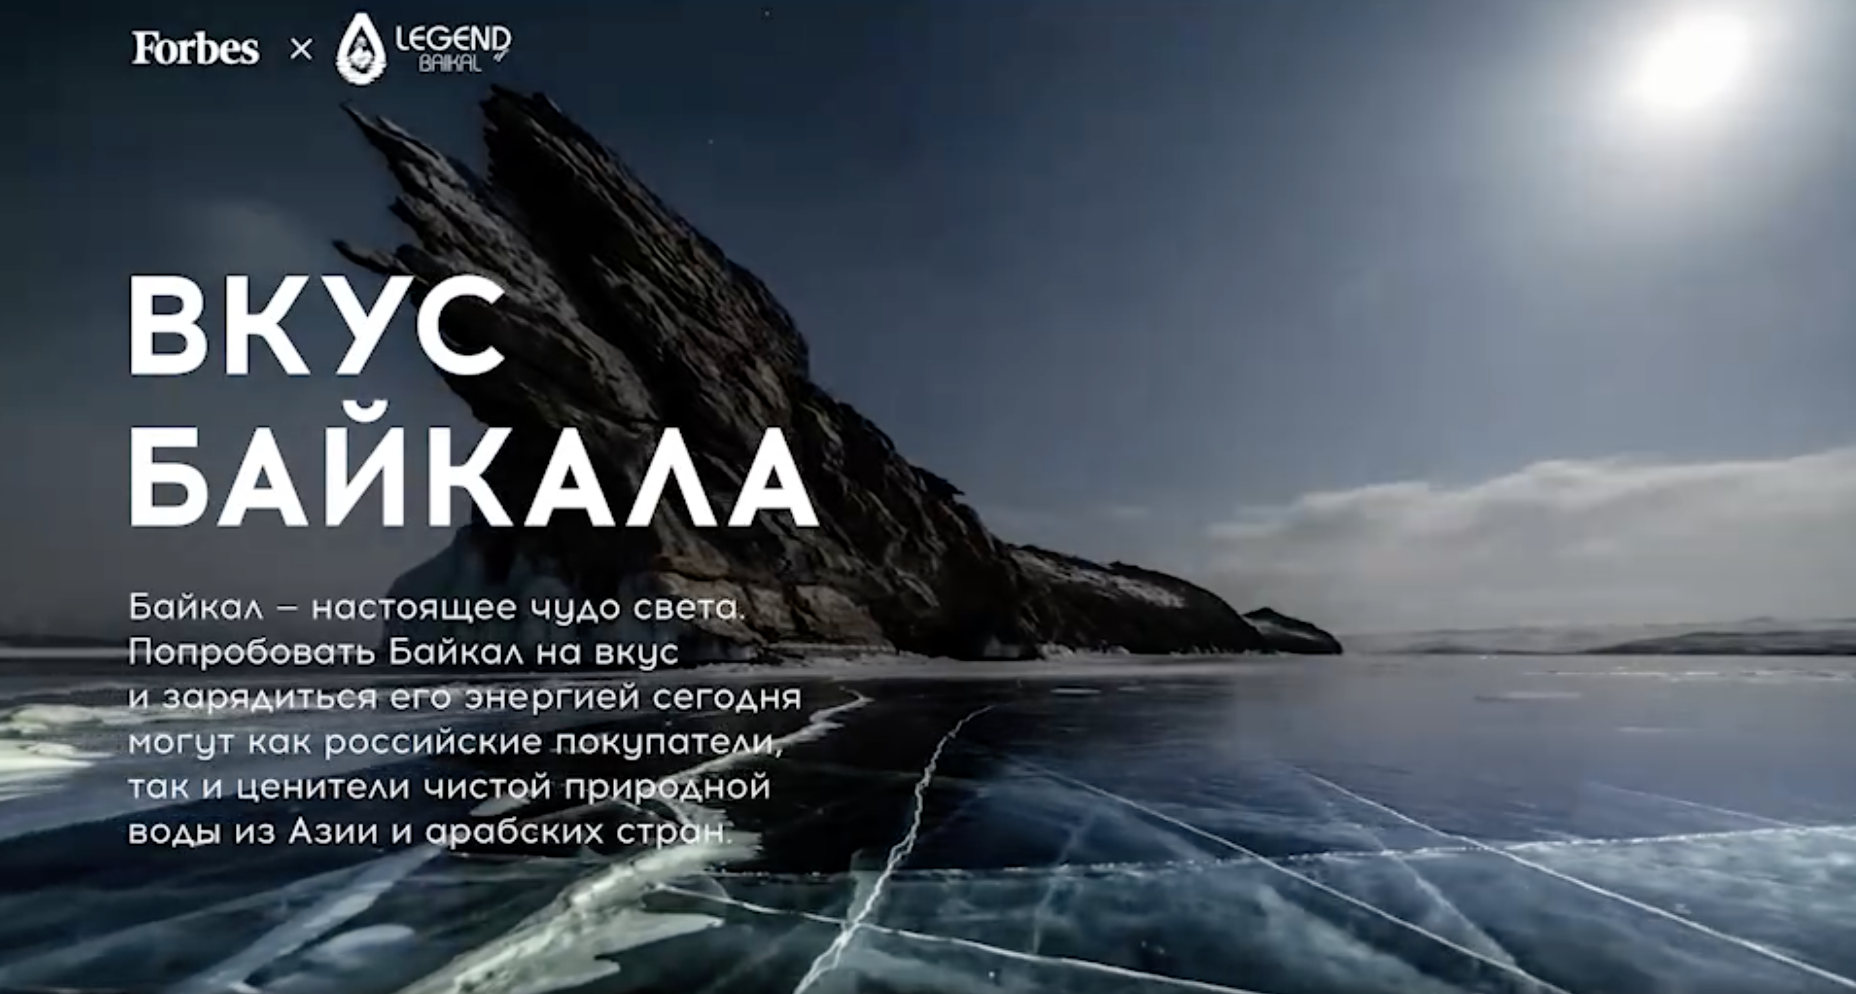
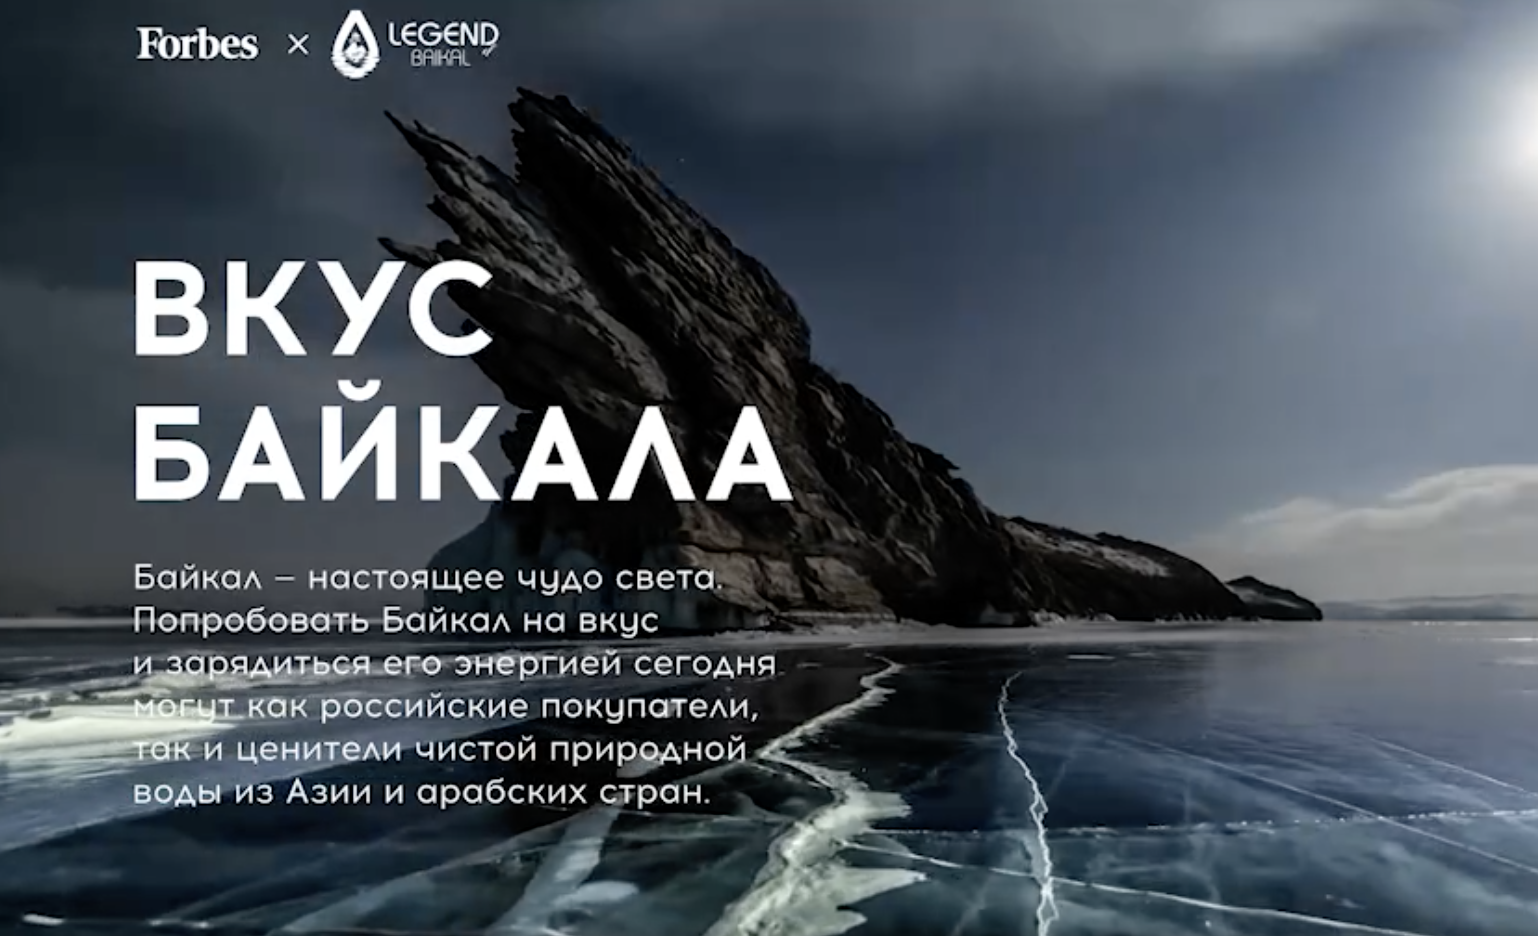
portfolio: remove date from hero; fix hyphen wrap; l1 smaller case01; blur per-case; update 4 photos

diff --git a/portfolio.jsx b/portfolio.jsx
@@ -4,16 +4,17 @@ const CASES = [
   {
     n: "01",
     year: "2026",
-    title: [<span className="accent" key="a">Контент-завод</span>, " звезд"],
+    title: [<span className="accent" key="a">Контент‑завод</span>, " звезд"],
     role: "идея + пайплайн + запуск",
     client: "Пет-проект",
     body: "От инсайта до релиза. Цельный пайплайн «сбор данных — анализ — текст — музыка — постинг» с минимальным участием человека, в процесс активно вовлечены 1–2 кожаных мешка. Затраты стремятся к нулю. Тесты пройдены, работа идёт, готов к масштабированию. Кстати, есть окошко для инвестиций.",
     tags: ["ИИ", "автоматизация", "контент"],
     flip: false,
     light: false,
-    imgs: ["assets/1-1.png", "assets/1-2.jpg"],
+    imgs: ["assets/1-1.png", "assets/1-2.png"],
     imgPos: ["center center", "center top"],
-    blur: [true, false],
+    blur: [3, 0],
+    l1Style: { width: '58%', height: '52%' },
   },
   {
     n: "02",
@@ -27,7 +28,7 @@ const CASES = [
     light: false,
     imgs: ["assets/2-1.jpg", "assets/2-2.jpg"],
     imgPos: ["center center", "center center"],
-    blur: [true, true],
+    blur: [2, 2],
   },
   {
     n: "03",
@@ -65,7 +66,7 @@ const CASES = [
     tags: ["контент", "онбординг"],
     flip: false,
     light: false,
-    imgs: ["assets/5-1.png", "assets/5-2.png"],
+    imgs: ["assets/5-1.jpg", "assets/5-2.png"],
     imgPos: ["center center", "center center"],
   },
   {
@@ -139,12 +140,12 @@ function Case({ c }) {
         </div>
       </div>
       <div className="visual" aria-hidden="true">
-        <div className="layer l1" style={c.imgs ? { background: `url(${c.imgs[0]}) ${c.imgPos?.[0] || 'center center'} / cover no-repeat` } : {}}>
-          {c.blur?.[0] && <div style={{ position: 'absolute', inset: 0, backdropFilter: 'blur(3px)', WebkitBackdropFilter: 'blur(3px)', display: 'flex', alignItems: 'center', justifyContent: 'center' }}><span style={{ fontFamily: 'var(--font-mono)', fontSize: '11px', letterSpacing: '0.3em', color: 'rgba(244,244,240,0.18)', textTransform: 'uppercase', userSelect: 'none' }}>hidden</span></div>}
+        <div className="layer l1" style={{ ...(c.imgs ? { background: `url(${c.imgs[0]}) ${c.imgPos?.[0] || 'center center'} / cover no-repeat` } : {}), ...(c.l1Style || {}) }}>
+          {c.blur?.[0] > 0 && <div style={{ position: 'absolute', inset: 0, backdropFilter: `blur(${c.blur[0]}px)`, WebkitBackdropFilter: `blur(${c.blur[0]}px)`, display: 'flex', alignItems: 'center', justifyContent: 'center' }}><span style={{ fontFamily: 'var(--font-mono)', fontSize: '11px', letterSpacing: '0.3em', color: 'rgba(244,244,240,0.18)', textTransform: 'uppercase', userSelect: 'none' }}>hidden</span></div>}
           {!c.imgs && 'image · 16:10'}
         </div>
         <div className="layer l2" style={c.imgs ? { background: `url(${c.imgs[1]}) ${c.imgPos?.[1] || 'center center'} / cover no-repeat` } : {}}>
-          {c.blur?.[1] && <div style={{ position: 'absolute', inset: 0, backdropFilter: 'blur(3px)', WebkitBackdropFilter: 'blur(3px)', display: 'flex', alignItems: 'center', justifyContent: 'center' }}><span style={{ fontFamily: 'var(--font-mono)', fontSize: '11px', letterSpacing: '0.3em', color: 'rgba(244,244,240,0.18)', textTransform: 'uppercase', userSelect: 'none' }}>hidden</span></div>}
+          {c.blur?.[1] > 0 && <div style={{ position: 'absolute', inset: 0, backdropFilter: `blur(${c.blur[1]}px)`, WebkitBackdropFilter: `blur(${c.blur[1]}px)`, display: 'flex', alignItems: 'center', justifyContent: 'center' }}><span style={{ fontFamily: 'var(--font-mono)', fontSize: '11px', letterSpacing: '0.3em', color: 'rgba(244,244,240,0.18)', textTransform: 'uppercase', userSelect: 'none' }}>hidden</span></div>}
           {!c.imgs && 'detail · 4:3'}
         </div>
         <div className="layer l3">{c.n}</div>
@@ -170,7 +171,7 @@ function PortfolioApp() {
       <a href="index.html" className="back-link">← главная</a>
 
       <section className="portfolio-hero">
-        <div className="hero-name">004 / Portfolio · 2021—2026</div>
+        <div className="hero-name">004 / Portfolio</div>
         <h1>
           Антиосов.<br />
           <span style={{ fontStyle: 'italic', color: 'var(--accent)' }}>Найдется все.</span>